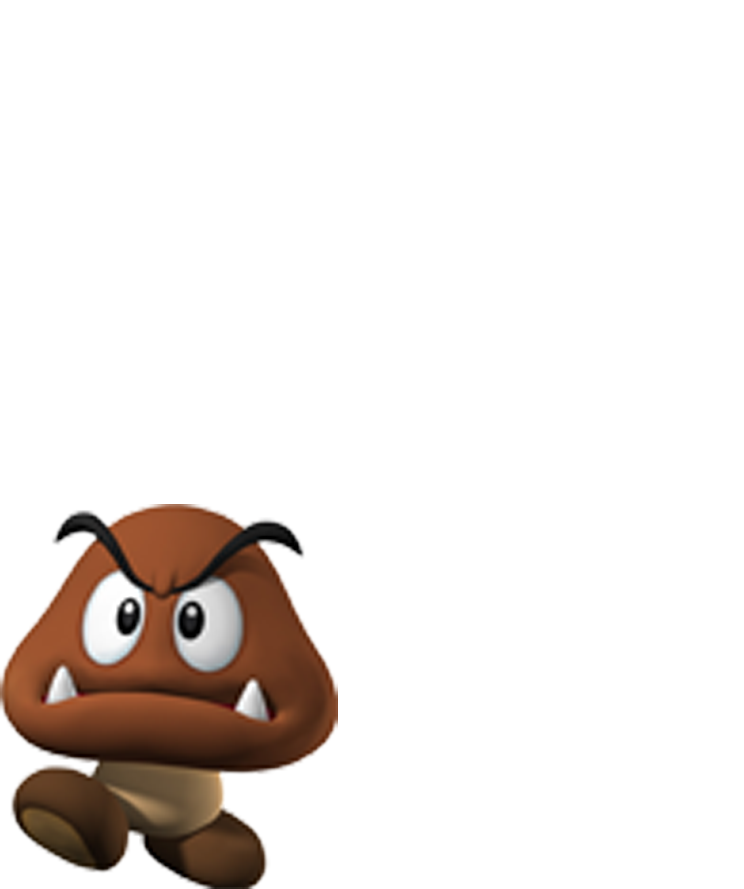
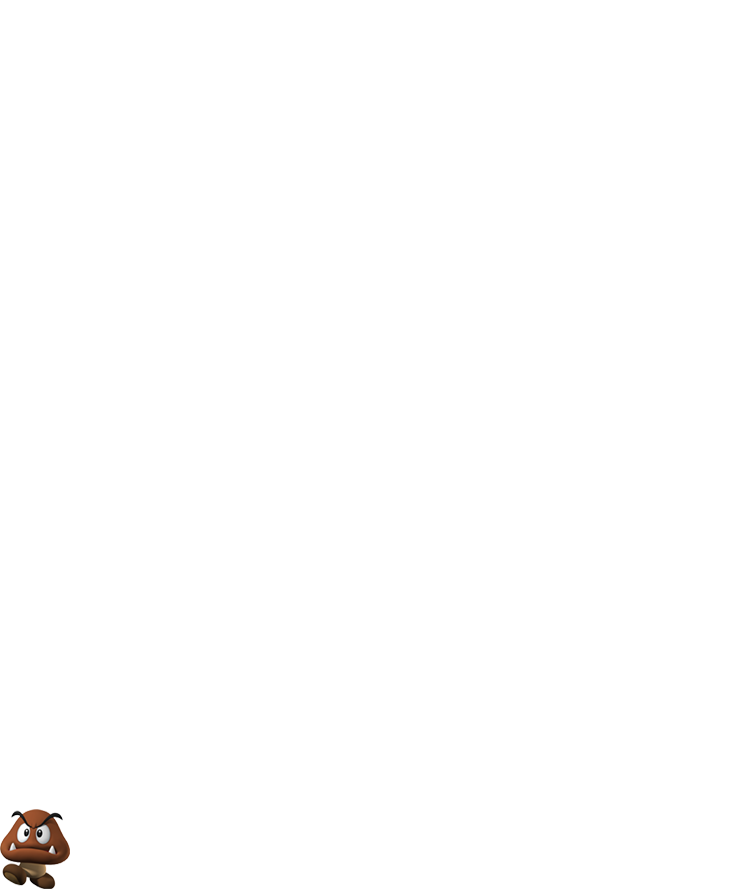
Goomba fixed

Changed region(s): [[0.0, 0.5467, 0.4637, 1.0]]

diff --git a/Code/Scratchs/Goomba Movement/core/src/gdx/game/Main.java b/Code/Scratchs/Goomba Movement/core/src/gdx/game/Main.java
@@ -21,15 +21,15 @@ public class Main extends ApplicationAdapter {
 		batch = new SpriteBatch();
 		img2 = new Texture("Goomba.png");
         sprGoomba= new Sprite (img2);
-        sprGoomba.setPosition(0,-100);
-        sprGoomba.setScale(0.5f);
+        sprGoomba.setPosition(0,0);
+        sprGoomba.setScale(1f);
 
 
 	}
 
 	@Override
 	public void render () {
-        sprGoomba.translateX(-1f);
+        //sprGoomba.translateX(-1f);
 	    Gdx.gl.glClearColor(0, 0, 0, 0);
 		Gdx.gl.glClear(GL20.GL_COLOR_BUFFER_BIT);
 		batch.begin();
